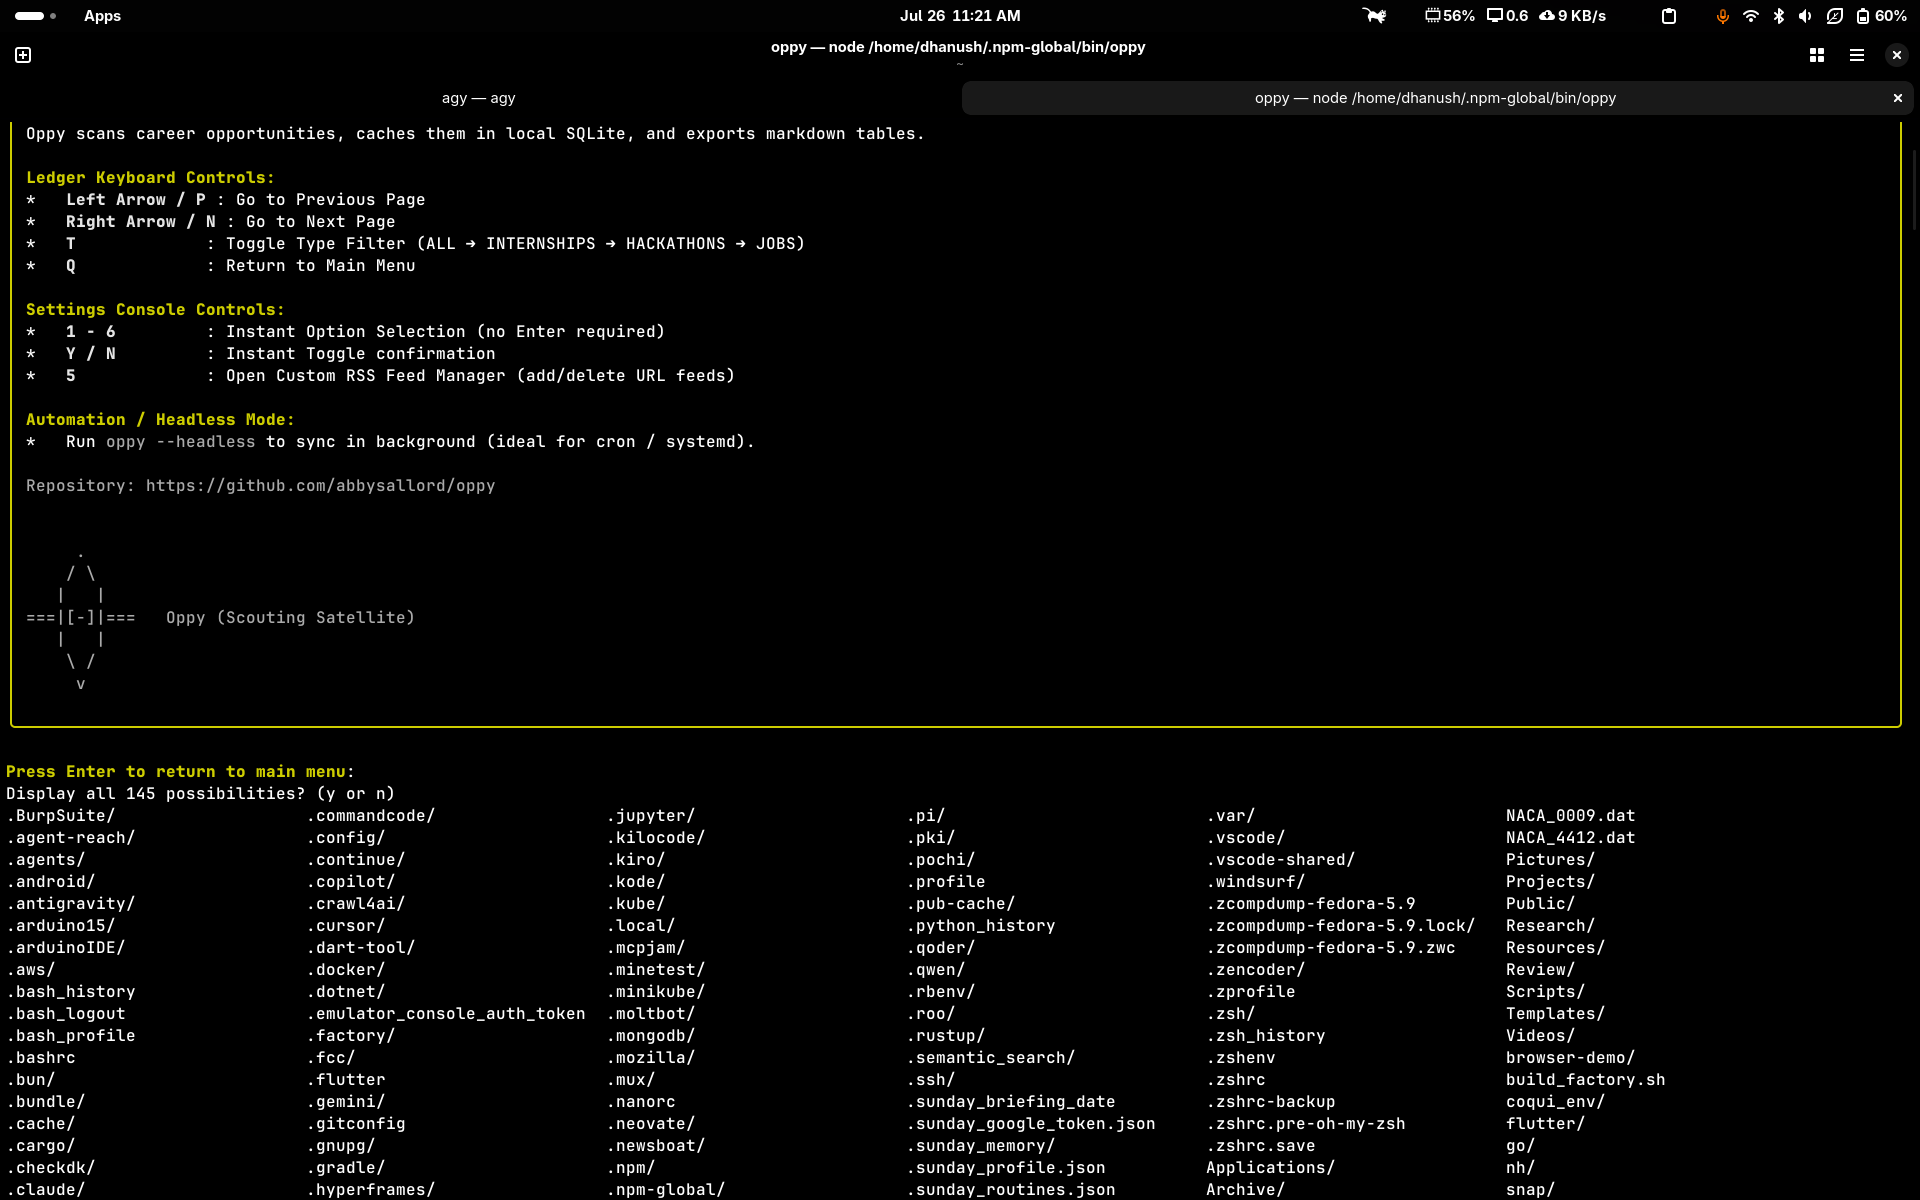
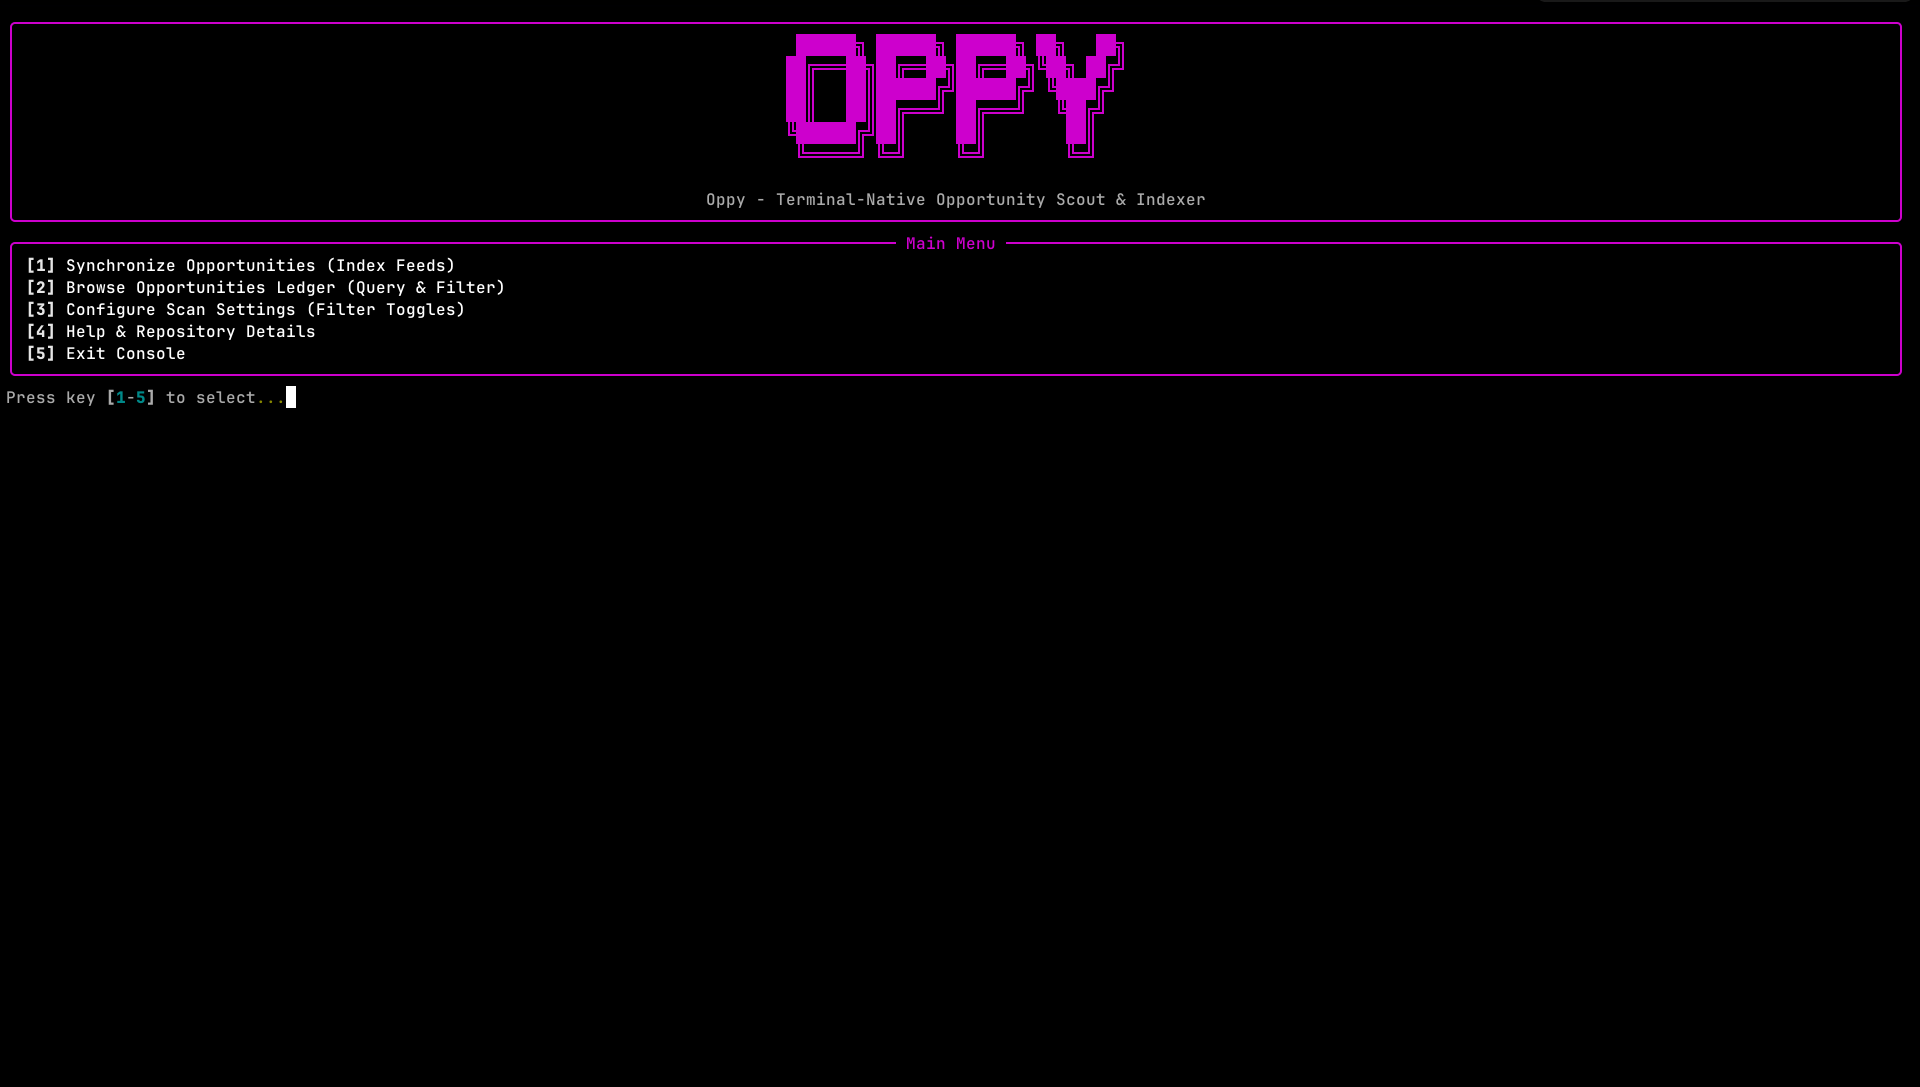
feat(web): update terminal visual, fix click overlays, smooth FAQs, and polish card hovers

diff --git a/web/src/app/page.module.css b/web/src/app/page.module.css
@@ -115,21 +115,21 @@
 
 .navCTA {
   font-family: var(--font-mono), monospace;
-  font-size: 0.85rem;
-  color: var(--accent-beam);
-  border: 1px solid rgba(0, 229, 188, 0.3);
-  padding: 0.5rem 1rem;
-  border-radius: 8px;
-  background-color: rgba(0, 229, 188, 0.02);
+  font-size: 0.82rem;
+  color: var(--text-primary);
+  border: 1px solid var(--border-wire);
+  padding: 0.4rem 0.85rem;
+  border-radius: 6px;
+  background-color: rgba(255, 255, 255, 0.03);
   cursor: pointer;
   transition: all 0.2s cubic-bezier(0.16, 1, 0.3, 1);
 }
 
 .navCTA:hover {
-  border-color: var(--accent-beam);
-  background-color: rgba(0, 229, 188, 0.1);
-  box-shadow: 0 0 16px rgba(0, 229, 188, 0.15);
-  transform: translateY(-1px);
+  border-color: rgba(0, 229, 188, 0.4);
+  color: var(--accent-beam);
+  background-color: rgba(0, 229, 188, 0.05);
+  box-shadow: 0 4px 12px rgba(0, 0, 0, 0.5);
 }
 
 /* Hero Section */
@@ -335,14 +335,15 @@
   position: relative;
   overflow: hidden;
   transition: border-color 0.3s cubic-bezier(0.16, 1, 0.3, 1),
-              transform 0.3s cubic-bezier(0.16, 1, 0.3, 1),
+              background-color 0.3s cubic-bezier(0.16, 1, 0.3, 1),
               box-shadow 0.3s cubic-bezier(0.16, 1, 0.3, 1);
 }
 
 .card:hover {
-  border-color: var(--accent-beam);
-  transform: translateY(-4px) scale(1.01);
-  box-shadow: 0 12px 30px rgba(0, 0, 0, 0.5), 0 0 1px 1px rgba(0, 229, 188, 0.15);
+  border-color: rgba(0, 229, 188, 0.4);
+  background-color: rgba(17, 17, 19, 0.8);
+  box-shadow: inset 0 0 0 1px rgba(0, 229, 188, 0.05),
+              0 20px 40px rgba(0, 0, 0, 0.6);
 }
 
 .cardIcon {

diff --git a/web/src/app/page.tsx b/web/src/app/page.tsx
@@ -27,12 +27,13 @@ const FAQItem = ({ question, answer }: { question: string; answer: string }) => 
         animate={{
           height: isOpen ? "auto" : 0,
           opacity: isOpen ? 1 : 0,
-          marginTop: isOpen ? "1rem" : 0,
-          paddingTop: isOpen ? "1rem" : 0,
         }}
         transition={{ duration: 0.3, ease: [0.16, 1, 0.3, 1] }}
+        style={{ overflow: "hidden" }}
       >
-        <p>{answer}</p>
+        <div style={{ paddingTop: "1rem" }}>
+          <p>{answer}</p>
+        </div>
       </motion.div>
     </div>
   );

diff --git a/web/src/app/globals.css b/web/src/app/globals.css
@@ -19,6 +19,7 @@
   box-sizing: border-box;
   margin: 0;
   padding: 0;
+  -webkit-tap-highlight-color: transparent;
 }
 
 html {
@@ -52,6 +53,15 @@ code, pre, .mono-text {
 a {
   color: inherit;
   text-decoration: none;
+}
+
+a:focus, button:focus {
+  outline: none;
+}
+
+a:focus-visible, button:focus-visible {
+  outline: 2px solid var(--accent-beam);
+  outline-offset: 4px;
 }
 
 button {
